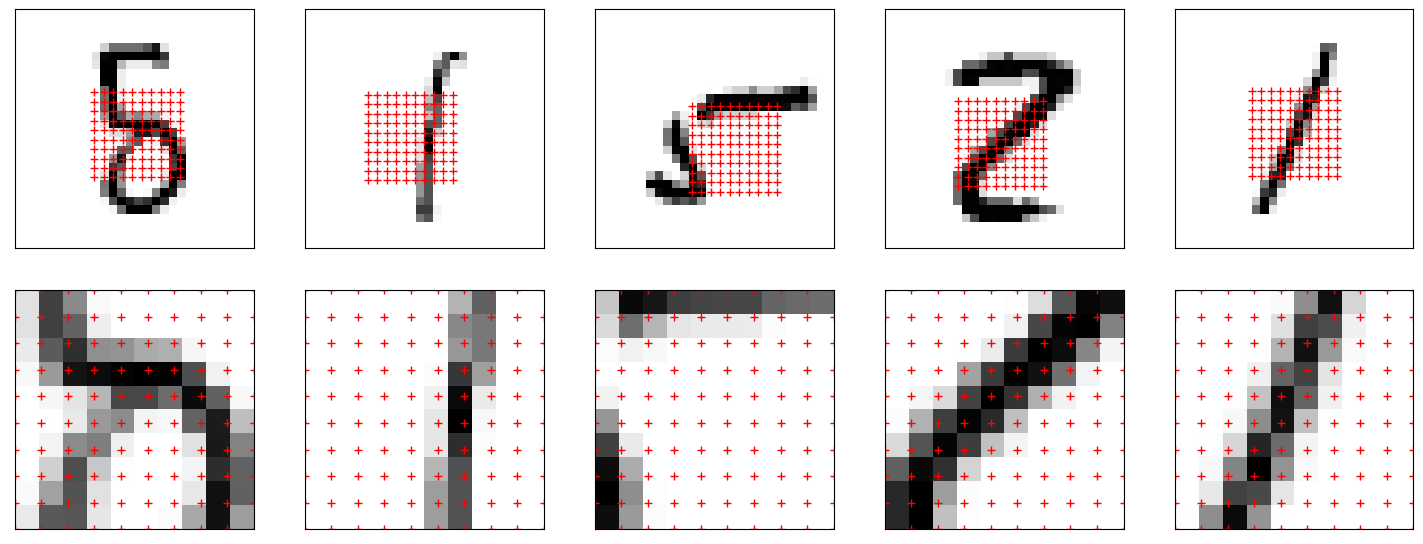
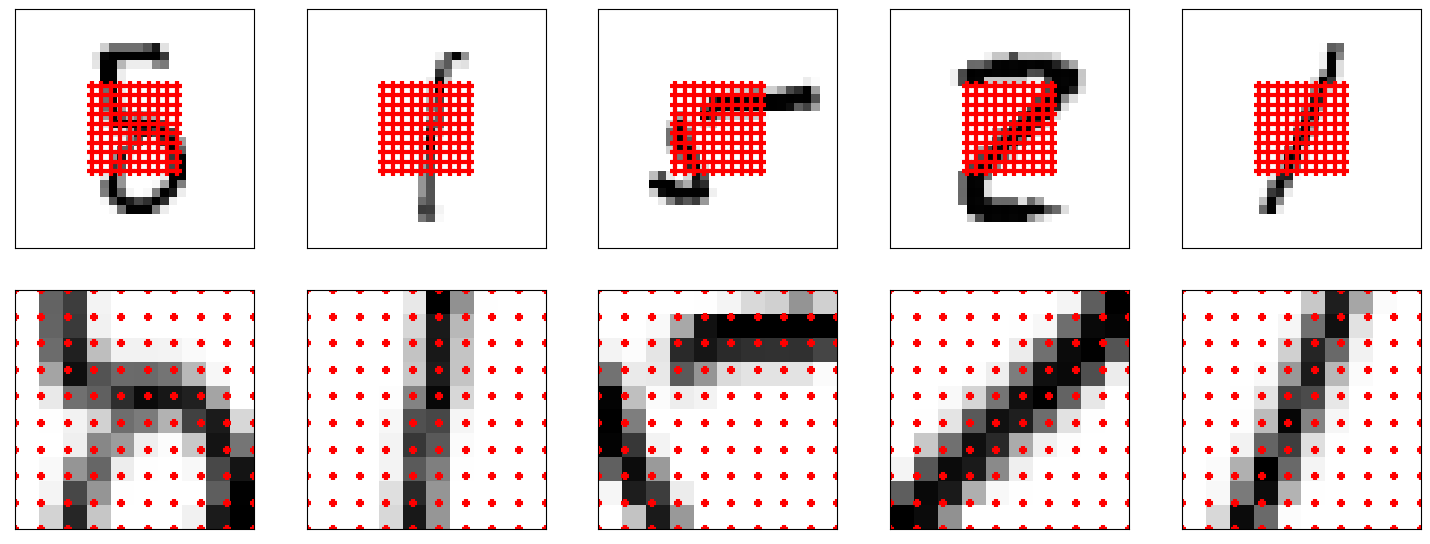
add

diff --git a/gp/gpax_test.py b/gp/gpax_test.py
@@ -1,3 +1,6 @@
+import os
+os.environ["XLA_PYTHON_CLIENT_PREALLOCATE"] = "false"
+os.environ["XLA_PYTHON_CLIENT_ALLOCATOR"] = "platform"
 
 from functools import partial
 import sys
@@ -15,8 +18,8 @@ try:
 except:
     pass
 import jax
-# for multi-cpu pytest s!
-jax.config.update('jax_platform_name', 'cpu')
+jax.config.update('jax_platform_name', 'cpu') # for multi-cpu pytest s!
+
 from jax.scipy.linalg import cho_solve, solve_triangular
 import jax.numpy.linalg as linalg
 from jax import random
@@ -228,7 +231,7 @@ class TestKernel(unittest.TestCase):
                                    patch_shape=patch_shape,
                                    kp_cls=CovSE)
         k = CovConvolutional(kg_cls=kg_cls,
-                            patch_inducing_loc=False)
+                            inducing_patch=False)
         params = k.init(key, x)
 
         for X, Y, shape, method in [(x, y, (N, M), k.Kff),
@@ -242,7 +245,7 @@ class TestKernel(unittest.TestCase):
 
         # test shape when u ~ GP(0,ku) f ~ GP(0, kf)
         k = CovConvolutional(kg_cls=kg_cls,
-                            patch_inducing_loc=True)
+                            inducing_patch=True)
         params = k.init(key, x)
         for X, Y, shape, method in [(x, None, (N, N), k.Kff),
                                     (x, y, (N, M), k.Kff),
@@ -266,7 +269,7 @@ class TestKernel(unittest.TestCase):
                                    kp_cls=CovSE,
                                    kl_cls=CovSE)
         k = CovConvolutional(kg_cls=kg_cls,
-                             patch_inducing_loc=True)
+                             inducing_patch=True)
         params = k.init(key, x)
         for X, Y, shape, method in [(x, None, (N, N), k.Kff),
                                     (x, y, (N, M), k.Kff),
@@ -299,7 +302,7 @@ class TestKernel(unittest.TestCase):
         g_cls = CNNMnistTrunk
         kg_cls = CovPatchEncoder
         kf_cls = partial(CovConvolutional, kg_cls=kg_cls,
-                                           patch_inducing_loc=False)
+                                           inducing_patch=False)
         k_cls = partial(CovMultipleOutputIndependent, k_cls=kf_cls,
                                                     output_dim=O,
                                                     g_cls=g_cls)
@@ -316,7 +319,7 @@ class TestKernel(unittest.TestCase):
 
         # test shape when u ~ GP(0,ku) f ~ GP(0, kf)
         kf_cls = partial(CovConvolutional, kg_cls=kg_cls,
-                                           patch_inducing_loc=True)
+                                           inducing_patch=True)
         k_cls = partial(CovMultipleOutputIndependent, k_cls=kf_cls,
                                                     output_dim=O,
                                                     g_cls=g_cls)
@@ -341,7 +344,7 @@ class TestKernel(unittest.TestCase):
         ypl = (yp, yl)
         kg_cls = partial(CovPatchEncoder, kl_cls=CovSE)
         kf_cls = partial(CovConvolutional, kg_cls=kg_cls,
-                                           patch_inducing_loc=True)
+                                           inducing_patch=True)
         k_cls = partial(CovMultipleOutputIndependent, k_cls=kf_cls,
                                                     output_dim=O,
                                                     g_cls=g_cls)

diff --git a/gp/gpax.py b/gp/gpax.py
@@ -2930,3 +2930,23 @@ def plt_spatial_transform(axs, Gs, S, T):
     ax.set_yticks([])
     ax.scatter(Xt, Yt, marker='+', c='r', s=40, lw=1)
     ax.imshow(T, cmap='Greys', extent=(-1, 1, 1, -1), origin='upper')
+
+
+def plt_inducing_inputs_spatial_transform(params, model, max_show=10):
+    
+    ind = np.arange(min(max_show, n_inducing))
+    
+    m = model.bind(params)
+    A = m.Xu.transform.T
+    S = pytree_leaf(params, 'params/Xu/X')
+    A = A[ind]; S = S[ind]
+
+    fn = vmap(spatial_transform_details, (0, 0, None), 0)
+    T, Gs = fn(A, S, patch_shape)
+    fig, axs = plt.subplots(2, len(A), figsize=(3*len(A),3*2))
+    for i in range(len(T)):
+        plt_spatial_transform(axs[:,i], Gs[i], S[i], T[i])
+    fig.tight_layout()
+    
+    return fig
+    
